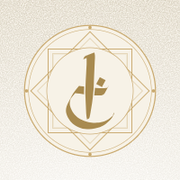
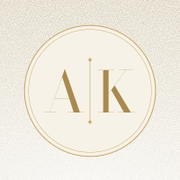
Modern A | K monogram (Bodoni Moda) in a clean double ring
Replaces the Jawi monogram and the star frame.

Changed region(s): [[0.1389, 0.1389, 0.8611, 0.8611], [0.6111, 0.3611, 0.6389, 0.3889]]

diff --git a/index.html b/index.html
@@ -18,8 +18,8 @@
   <meta property="og:url" content="https://ameeraomar335-blip.github.io/ameera-khairy/">
   <meta property="og:title" content="Walimatulurus Ameera &amp; Khairy">
   <meta property="og:description" content="Sabtu, 19 Disember 2026 · Le Rozza Event Venue, Senawang, Seremban. Sila sahkan kehadiran anda.">
-  <meta property="og:image" content="https://ameeraomar335-blip.github.io/ameera-khairy/assets/og-image.jpg?v=3">
-  <meta property="og:image:secure_url" content="https://ameeraomar335-blip.github.io/ameera-khairy/assets/og-image.jpg?v=3">
+  <meta property="og:image" content="https://ameeraomar335-blip.github.io/ameera-khairy/assets/og-image.jpg?v=4">
+  <meta property="og:image:secure_url" content="https://ameeraomar335-blip.github.io/ameera-khairy/assets/og-image.jpg?v=4">
   <meta property="og:image:type" content="image/jpeg">
   <meta property="og:image:width" content="1200">
   <meta property="og:image:height" content="630">
@@ -29,7 +29,7 @@
   <link rel="preconnect" href="https://fonts.googleapis.com">
   <link rel="preconnect" href="https://fonts.gstatic.com" crossorigin>
   <link rel="preload" as="image" href="assets/songket-lattice.svg">
-  <link rel="preload" as="image" href="assets/monogram-jawi.svg">
+  <link rel="preload" as="image" href="assets/monogram.svg">
   <link href="https://fonts.googleapis.com/css2?family=Amiri&family=Cormorant+Garamond:ital,wght@0,400;0,500;0,600;0,700;1,400&family=Great+Vibes&display=swap" rel="stylesheet">
   <link rel="stylesheet" href="style.css">
 </head>
@@ -46,8 +46,7 @@
           <div class="door door--left"><span class="door-panel"></span><span class="door-knob"></span></div>
           <div class="door door--right"><span class="door-panel"></span><span class="door-knob"></span></div>
           <div class="medallion">
-            <img src="assets/monogram-frame.svg" alt="" width="200" height="200">
-            <img class="mono-jawi" src="assets/monogram-jawi.svg" alt="Monogram Jawi alif dan kha" width="200" height="200">
+            <img src="assets/monogram.svg" alt="Monogram A | K" width="200" height="200">
           </div>
         </div>
       </div>
@@ -66,8 +65,7 @@
     <header class="hero section">
       <div class="songket-band" aria-hidden="true"></div>
       <div class="hero-mono reveal">
-        <img src="assets/monogram-frame.svg" alt="" width="200" height="200">
-        <img class="mono-jawi" src="assets/monogram-jawi.svg" alt="Monogram Jawi alif dan kha" width="200" height="200">
+        <img src="assets/monogram.svg" alt="Monogram A | K" width="200" height="200">
       </div>
       <p class="eyebrow reveal">Walimatulurus</p>
       <h1 class="couple reveal">Ameera <span class="amp">&amp;</span> Khairy</h1>
@@ -334,8 +332,7 @@
       <p class="arabic closing-doa reveal" lang="ar" dir="rtl">بَارَكَ اللَّهُ لَكَما، وَبَارَكَ عَلَيْكَما، وَجَمَعَ بَيْنَكُمَا فِي خَيْرٍ</p>
       <p class="arabic jazakum reveal"><span aria-hidden="true">✨</span> <span lang="ar" dir="rtl">جَزَاكُمُ اللهُ خَيْرًا</span> <span aria-hidden="true">✨</span></p>
       <div class="hero-mono hero-mono--sm reveal">
-        <img src="assets/monogram-frame.svg" alt="" width="200" height="200">
-        <img class="mono-jawi" src="assets/monogram-jawi.svg" alt="Monogram Jawi alif dan kha" width="200" height="200">
+        <img src="assets/monogram.svg" alt="Monogram A | K" width="200" height="200">
       </div>
       <p class="closing-date reveal">Ameera &amp; Khairy · 19.12.2026</p>
       <div class="songket-band songket-band--flip" aria-hidden="true"></div>

diff --git a/style.css b/style.css
@@ -64,9 +64,6 @@ button { font: inherit; color: inherit; cursor: pointer; }
   opacity: .9;
 }
 
-/* Jawi monogram (assets/monogram-jawi.svg) sits over the star frame */
-.mono-jawi { z-index: 1; }
-
 .monogram {
   font-family: var(--font-script);
   color: var(--gold-deep);
